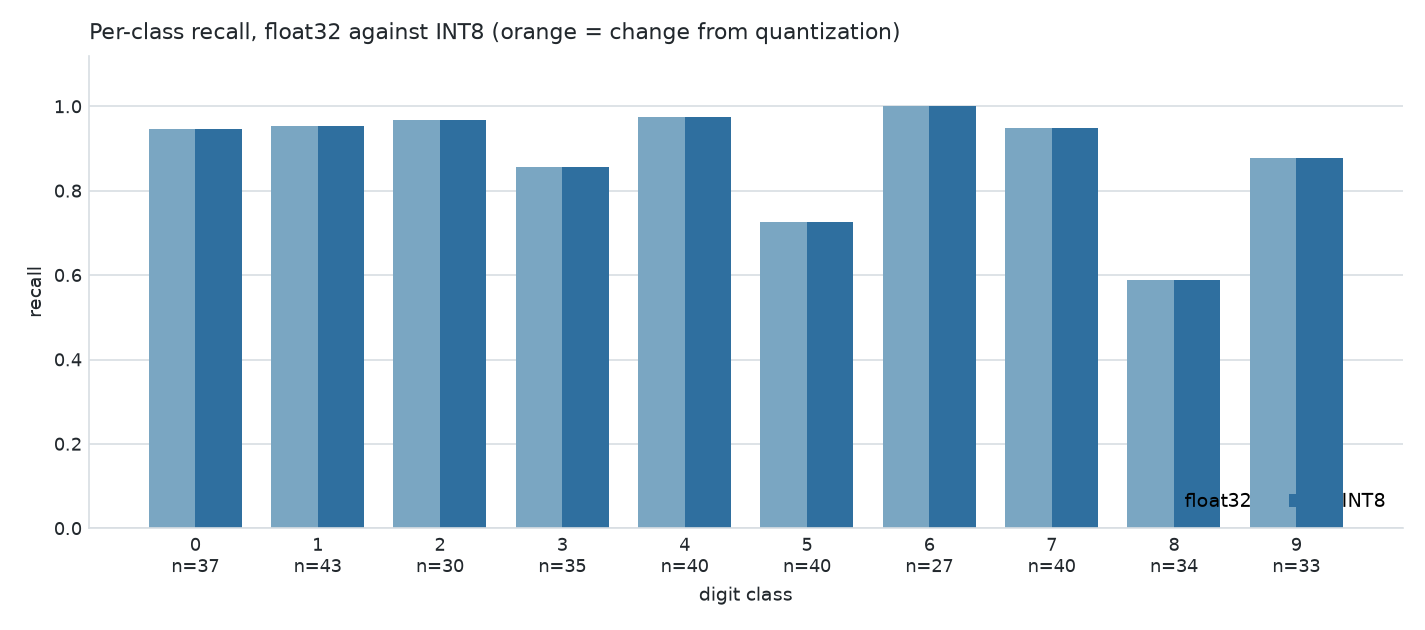
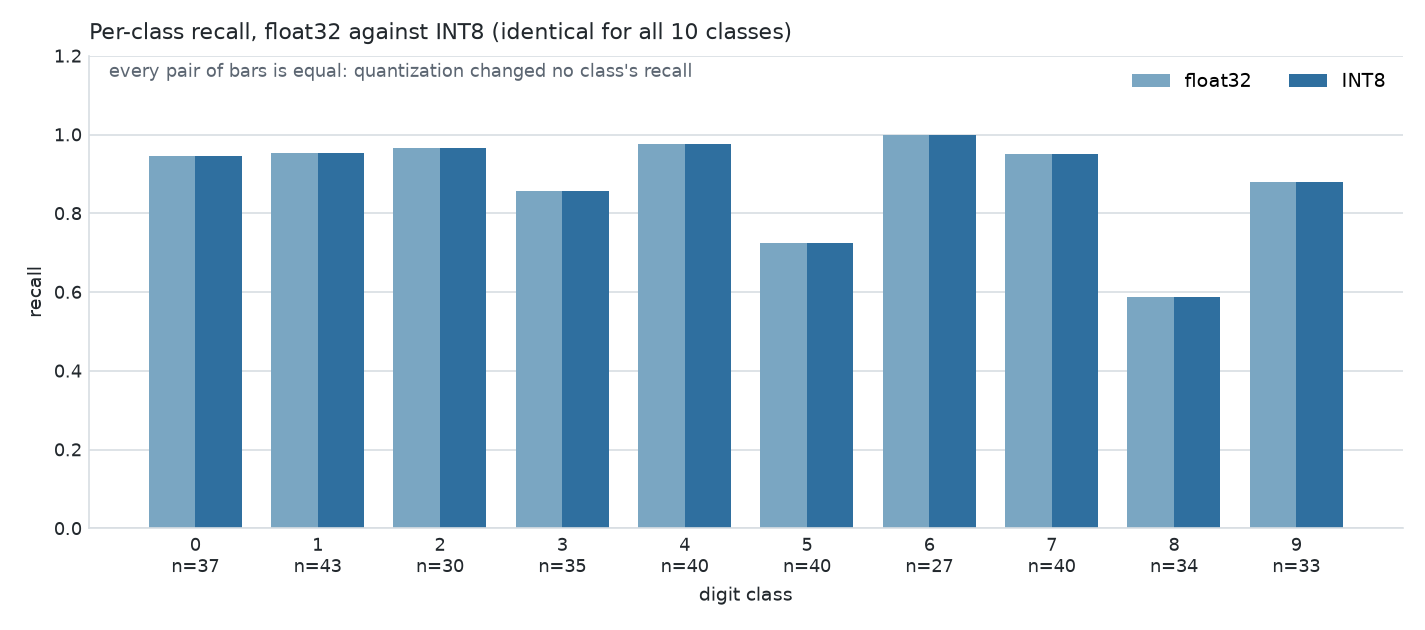
fix(figures): the per-class panel promised an orange that was never drawn
Same failure mode as the confusion difference, one step milder. The delta
annotations are gated on abs(a - b) > 1e-9 and no class's recall changed,
so the title's "orange = change from quantization" pointed at a colour
absent from the figure, and ten pairs of equal bars read as one series
plotted twice.

The title now states which case it is, and when nothing changed the panel
says so above the bars. The legend moves to the free upper-right band; at
lower right it was sitting on the class 8 and 9 bars.

diff --git a/scripts/plot_demo.py b/scripts/plot_demo.py
@@ -166,17 +166,31 @@ def plot_per_class(res) -> None:
     fig, ax = plt.subplots(figsize=(9.5, 4.2))
     ax.bar(x - 0.19, f32, width=0.38, color=C_F32, label="float32")
     ax.bar(x + 0.19, i8, width=0.38, color=C_I8, label="INT8")
+    changed = 0
     for i, (a, b) in enumerate(zip(f32, i8)):
         if abs(a - b) > 1e-9:
+            changed += 1
             ax.annotate(f"{b - a:+.3f}", (i, max(a, b)), ha="center",
                         va="bottom", fontsize=7.5, color=C_ERR,
                         xytext=(0, 2), textcoords="offset points")
     ax.set_xticks(x)
     ax.set_xticklabels([f"{c}\nn={m}" for c, m in zip(classes, n)])
-    ax.set_ylim(0, 1.12)
+    ax.set_ylim(0, 1.2)
+    # With no change anywhere there is no orange to see, and two bars of equal
+    # height read as one series drawn twice. Say which case this is instead of
+    # promising a colour that is not in the figure.
     style(ax, "Per-class recall, float32 against INT8 "
-              "(orange = change from quantization)", "digit class", "recall")
-    ax.legend(frameon=False, fontsize=9, ncol=2, loc="lower right")
+              + ("(orange = change from quantization)" if changed else
+                 "(identical for all 10 classes)"), "digit class", "recall")
+    if not changed:
+        # Above the bars, not over them: the tallest class reaches 1.0 and the
+        # limit is 1.2, so this band is empty.
+        ax.annotate("every pair of bars is equal: quantization changed no "
+                    "class's recall", (0.015, 0.985), xycoords="axes fraction",
+                    va="top", fontsize=8.5, color=MUTED_ANN, zorder=5)
+    # Upper right, where the 1.0 to 1.2 band is empty. At lower right the
+    # labels sat on top of the class 8 and 9 bars.
+    ax.legend(frameon=False, fontsize=9, ncol=2, loc="upper right")
     fig.tight_layout()
     fig.savefig(IMG / "demo_per_class.png", dpi=150)
     plt.close(fig)
